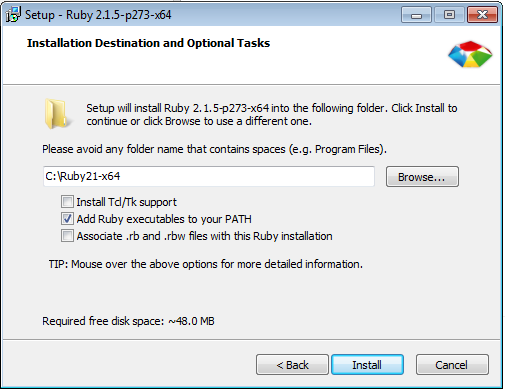
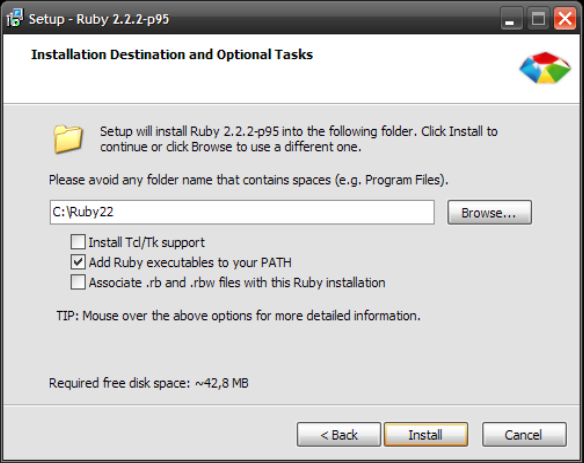
Update ruby versions for windows setup

Changed region(s): [[0.0, 0.0, 1.0, 1.0], [0.0594, 0.3702, 0.9208, 0.7095]]

diff --git a/windows.md b/windows.md
@@ -5,8 +5,8 @@
 Téléchargez et installez Ruby. Si vous ne savez pas quelle version choisir
 ci-dessous, la première ira très bien :
 
-- [Ruby 2.1.5](http://dl.bintray.com/oneclick/rubyinstaller/rubyinstaller-2.1.5.exe?direct)
-- [Ruby 2.1.5-x64](http://dl.bintray.com/oneclick/rubyinstaller/rubyinstaller-2.1.5-x64.exe?direct)
+- [Ruby 2.2.2](http://dl.bintray.com/oneclick/rubyinstaller/rubyinstaller-2.2.2.exe?direct)
+- [Ruby 2.2.2 (64 bits)](http://dl.bintray.com/oneclick/rubyinstaller/rubyinstaller-2.2.2-x64.exe?direct)
 
 Une fois téléchargé, double cliquez sur l'installeur. Attention au moment de l'installation,
 sur l'écran ci-dessous cochez la case du milieu:
@@ -48,7 +48,7 @@ Maintenant, tapez et executez les commandes suivantes successivement :
 ```bash
 ruby dk.rb init
 ruby dk.rb install
-gem install --local rubygems-update-2.2.3.gem
+gem install --local rubygems-update-2.4.8.gem
 update_rubygems --no-ri --no-rdoc
 ```
 
@@ -58,7 +58,7 @@ Tapez maintenant:
 gem --version
 ```
 
-Si le résultat affiché est 2.2.3, vous avez tout bon !
+Si le résultat affiché est 2.4.8, vous avez tout bon !
 
 ## Middleman
 
@@ -74,7 +74,7 @@ qui va vous installer Middleman. Attendez que le script se termine (cela prend u
 middleman version
 ```
 
-Si le résultat est "Middleman 3.3.7" ou plus, bravo ! Vous êtes prêt à utiliser [Middleman](https://middlemanapp.com/).
+Si le résultat est "Middleman 3.3.12" ou plus, bravo ! Vous êtes prêt à utiliser [Middleman](https://middlemanapp.com/).
 
 ## GitHub
 
